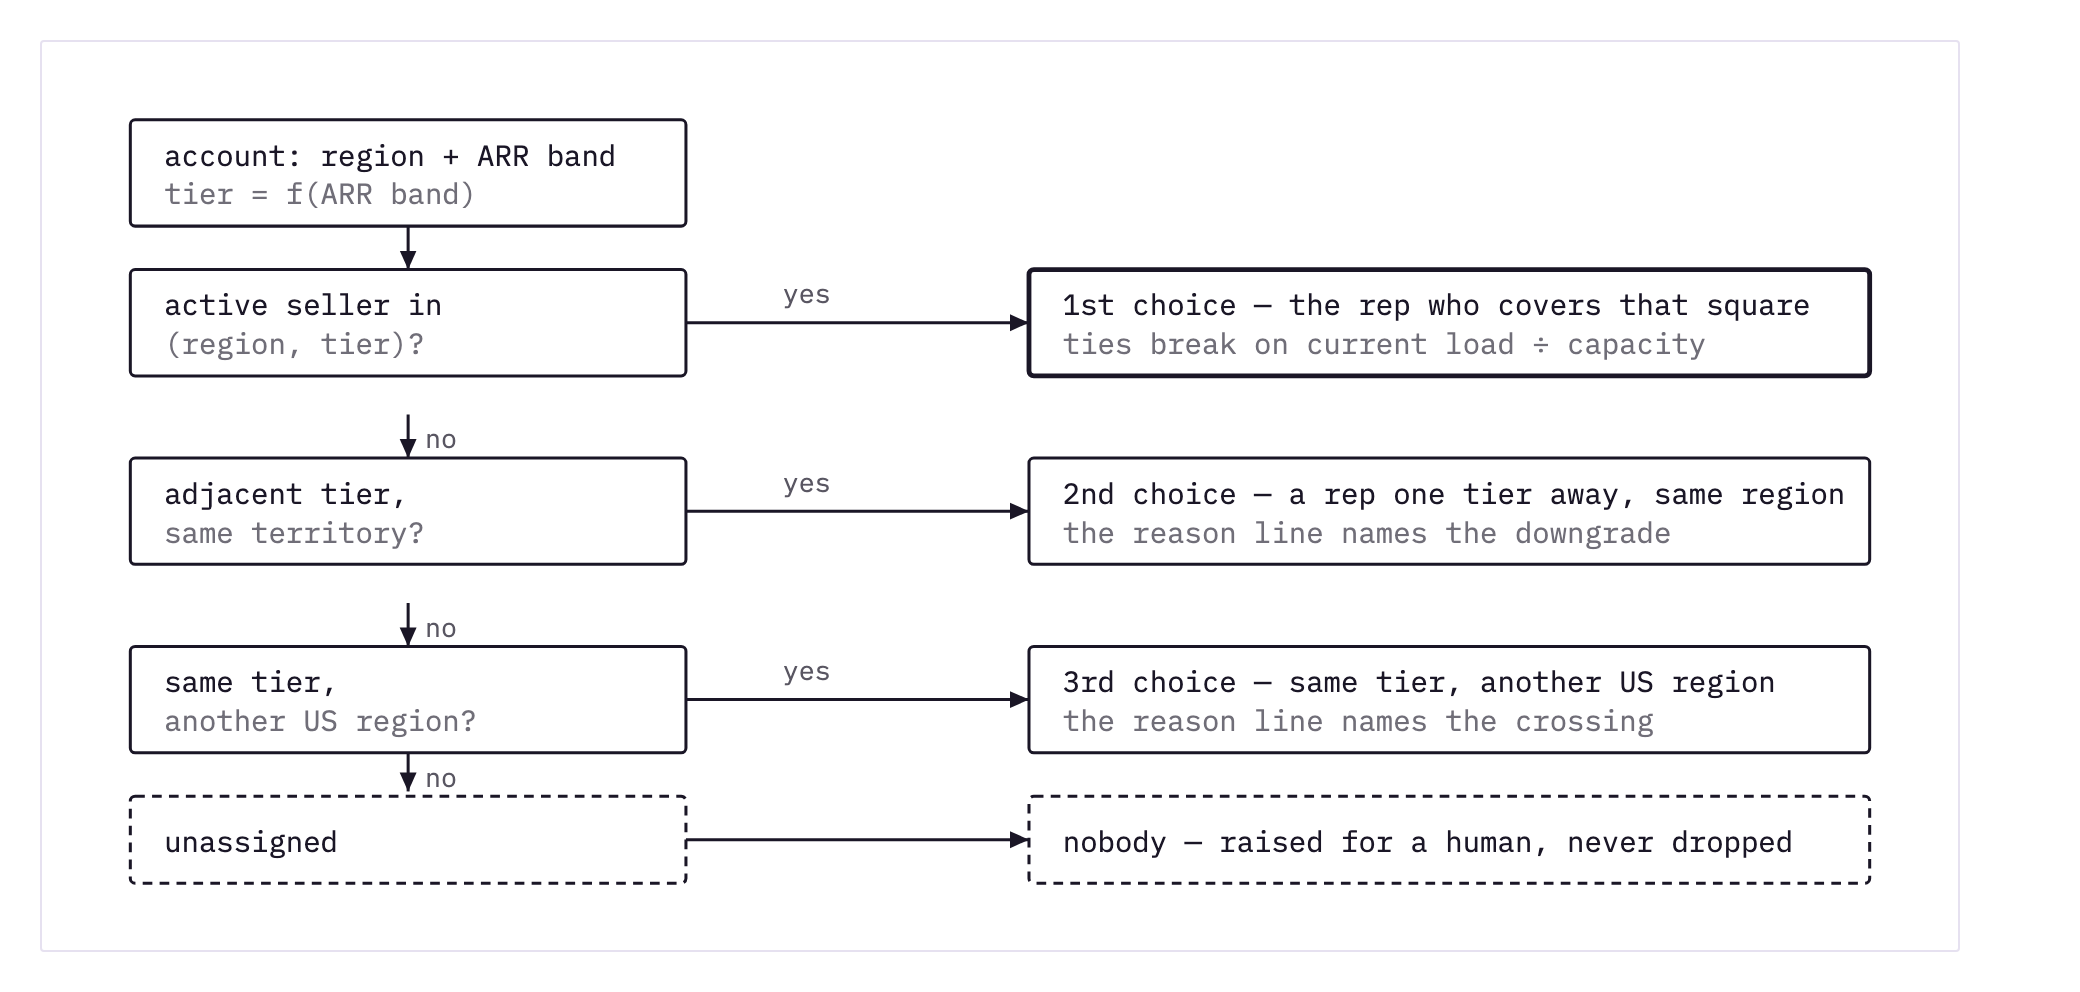
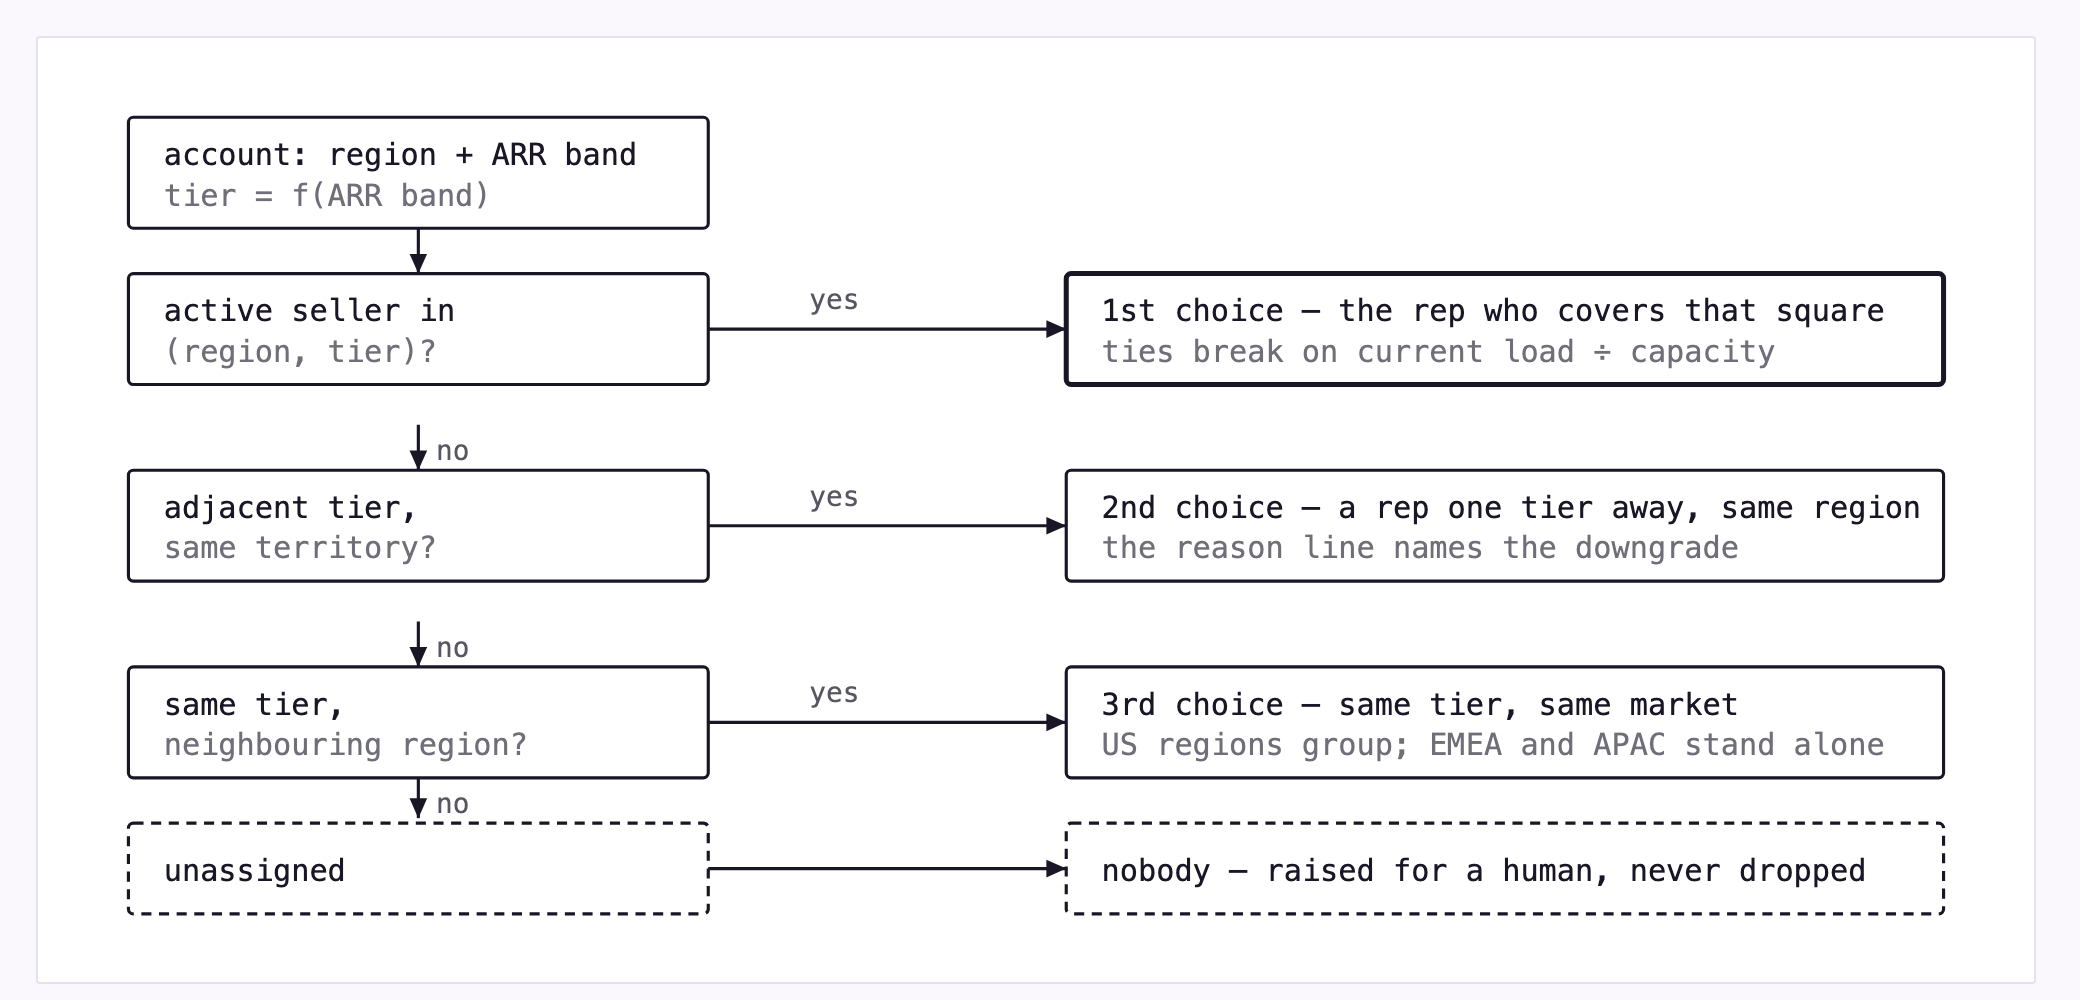
DESIGN: future extension

diff --git a/signal_router/route.py b/signal_router/route.py
@@ -9,11 +9,26 @@ opportunities" reading would behave differently. It weights the tie-break only
 and never caps anyone: nothing here refuses an assignment because a seller is
 full, which is why the load column can run past capacity without complaint.
 Fallbacks (each recorded in routing_reason): adjacent tier in the same
-territory, then same tier across US regions, then the unassigned queue.
+territory, then same tier in a neighbouring region of the same market,
+then the unassigned queue.
 OOO and ramping sellers never receive routes; the gaps they create are
 reported in coverage_report.md instead.
 """
-from .config import ADJACENT_TIERS, TIER_FROM_ARR, US_REGIONS
+from .config import ADJACENT_TIERS, TIER_FROM_ARR
+
+
+def _market(region: str) -> str:
+    """The market a region belongs to, read off its own name.
+
+    US-East, US-West and US-Central share the "US" prefix and are treated as one
+    market: same language, overlapping hours, one contract regime, so a rep in one
+    can hold an account in another until proper coverage returns. EMEA and APAC
+    carry no prefix and therefore form markets of one — deliberately, because
+    handing an APAC account to a US rep produces coverage on paper and nothing on
+    the phone. Deriving this from the name rather than hard-coding a list of
+    regions means a later EU-North / EU-South split groups itself.
+    """
+    return region.split("-")[0]
 
 
 def _pick(candidates: list[dict], load: dict) -> dict | None:
@@ -50,8 +65,11 @@ def route_bundles(bundles: list[dict], sellers: list[dict]) -> dict:
                               f"fell back to {alt} tier in-territory")
                     break
 
-        if not seller and region in US_REGIONS:  # fallback 2: cross US region
-            other = [s for r in US_REGIONS if r != region for s in in_cell(r, tier)]
+        if not seller:  # fallback 2: same tier, neighbouring region, same market
+            other = [s for s in active
+                     if s["territory"] != region
+                     and _market(s["territory"]) == _market(region)
+                     and tier in s["tiers"]]
             seller = _pick(other, load)
             if seller:
                 reason = (f"{region} / {tier}: no in-territory coverage — "

diff --git a/tests/test_pipeline.py b/tests/test_pipeline.py
@@ -191,6 +191,22 @@ class TestPipeline(unittest.TestCase):
             config.ASSUMPTIONS.clear(); config.ASSUMPTIONS.update(saved[1])
             score_signals(self.signals)
 
+    def test_cross_region_fallback_stays_inside_one_market(self):
+        """A rep may cover a neighbouring region only within the same market.
+
+        The market comes from the region name's prefix, so US-East/West/Central
+        group and EMEA/APAC stand alone. Guarding it because the branch never
+        fires on the sample data — an untested path carrying an assumption.
+        """
+        from signal_router.route import _market
+        self.assertEqual(_market("US-East"), _market("US-Central"))
+        self.assertNotEqual(_market("EMEA"), _market("APAC"))
+        self.assertNotEqual(_market("EMEA"), _market("US-East"))
+        for b in self.bundles:
+            if b["seller"] and "cross-region" in b["routing_reason"]:
+                self.assertEqual(_market(b["seller"]["territory"]),
+                                 _market(b["account"]["region"]))
+
     def test_deterministic_output(self):
         import tempfile
         outs = []

diff --git a/signal_router/config.py b/signal_router/config.py
@@ -34,13 +34,12 @@ TIER_FROM_ARR = {
 }
 
 # When the exact (territory, tier) cell has no active seller, fall back to an
-# adjacent tier in the same territory before crossing US regions.
+# adjacent tier in the same territory before crossing to a neighbouring region.
 ADJACENT_TIERS = {
     "Strategic": ["Enterprise"],
     "Enterprise": ["Strategic", "Mid-Market"],
     "Mid-Market": ["Enterprise"],
 }
-US_REGIONS = ["US-East", "US-West", "US-Central"]
 
 # ---------------------------------------------------------------------------
 # Scoring: score = (base + intensity_pts + fit_pts) * recency_decay

diff --git a/DESIGN.md b/DESIGN.md
@@ -5,10 +5,24 @@ Signals arrive daily against accounts and
 sellers, and nothing decides who acts on what. **This is a prototype that takes raw signals,
 scores them, and routes each to the right seller.**
 
+Stripped to its shape, the task is two hops — attach each event to a company, then
+attach that company to a person:
+
+```
+  ┌───────────────┐        ┌────────────────────┐        ┌────────────────┐
+  │    signals    │  ──▶   │      account       │  ──▶   │     seller     │
+  └───────────────┘        └────────────────────┘        └────────────────┘
+    what happened            who it happened to            who acts on it
+```
+
+Neither hop is given. The signal often does not name an account, and the account
+file and the seller file describe the world in different vocabularies. This is
+how the prototype closes both:
+
 ```
  usage_spike      ╮                                                               ╭─▶ seller
  job_change       │  ┌──────────┐    ┌───────┐    ┌──────────┐    ┌───────────┐   │
- intent_topic     ├─▶│ resolve  │ ─▶ │ score │ ─▶ │  bundle  │ ─▶ │   route   │───┼─▶ seller
+ intent_topic     ├─▶│ resolve  │ ─▶ │scoring│ ─▶ │  bundle  │ ─▶ │   routing │───┼─▶ seller
  funding_event    │  └──────────┘    └───────┘    └──────────┘    └───────────┘   │
  competitor_eval  ╯   to account      payload      by account      region+tier    ╰─▶ seller
                            │                                            │
@@ -22,16 +36,6 @@ scores them, and routes each to the right seller.**
 Each seller ends the run with one ranked queue — P1 to act on today, P2 this
 week, P3 to watch — and every item in it carries a named owner.
 
-
-
-## Principles
-
-1. **Every number is a business judgment** — all of them in `config.py`, with the
-   reasoning beside them.
-2. **Rank and explain together.** A number nobody can audit is a number nobody
-   trusts, and a seller who distrusts the queue stops opening it.
-3. **Refuse rather than guess.** Wrong-company outreach costs more than a delay.
-4. **Sellers think in accounts**, so signals bundle per account.
 
 ## Scoring
 
@@ -81,10 +85,7 @@ visible rather than absorbed.
 3. **Load follows territory, not effort.** The router balances inside a cell but
    cannot balance across them. This run three active reps covered the region that
    produced one work item while one rep absorbed ten, and the account base does not
-   explain it — 41 accounts against 64. At this sample size an empty queue is
-   ordinary noise; persisting at daily volume it is a territory-design problem no
-   router can fix. The dashboard therefore marks who received nothing and leaves
-   the judgment to a person.
+   explain it
 4. **Ambiguous semantics.** `job_change.direction` never says what it is relative
    to. We read "departed" as a real departure because the cheaper failure is a
    wasted check, not congratulating someone who has left — it inverts 7 of 11 job
@@ -100,27 +101,20 @@ outcomes could replace my judgment instead of sitting behind it.
 
 ## Future extensions
 
-1. Put an identity service ahead of resolution and raise the billing↔CRM break as its own
-alert. Or Integrate with CRM or Slack that can create accounts directly.
-2. Adding manager level authority to manually redirect signals to seller that could be flexible enough to redirect when sellers are in Ramp or OOO status. 
-3. Persist state for the unassigned signals. A real store is what unlocks the rest:
-today each run is a standalone set of files, so there is no history to dedupe
-against, no capacity that binds over time, and no record of what happened to an
-item after it was routed.
-4. Give every seller a named backup, so an OOO or ramping territory is covered by a
-person instead of falling through to an adjacent tier, and hand the accounts back
-when they return.
-5. Write the openers with a live model. They are deterministic templates today; the
-`--llm` path calls Fireworks' own inference API and falls back to the template on
-any failure, but it ships off by default and has never run against the live
-endpoint. 
-6. Give the seller the account, not just the signal — what the company does, who it
-sells to, what it announced this month. A rep opening a P1 on a prospect they have
-never heard of currently has one payload fact and nothing else.
-7. Make the view dynamic. The dashboard is a static file regenerated per run, which
-is why the Assign board can only export CSV rather than write a decision back. A
-served app with a session behind it would close that loop and let filters, claims
-and dismissals persist.
+Solid is what runs today. Dashed is what could happen for next.
+
+```
+                       ┌─ ─ ─ ─ ─ ─ ─ ─ ─ ─ ─ ┐    ┌─ ─ ─ ─ ─ ─ ─ ─ ─ ┐
+                       │ enrich & auto-create │    │  account brief   │
+                       └─ ─ ─ ─ ─ ─ ─ ─ ─ ─ ─ ┘    └─ ─ ─ ─ ─ ─ ─ ─ ─ ┘
+                                   ▼                         ▼
+  ┌─────────────┐        ┌──────────────────┐        ┌──────────────┐
+  │   signals   │  ──▶   │     account      │  ──▶   │    seller    │
+  └─────────────┘        └──────────────────┘        └──────────────┘
+         ▲                                                   │
+         └─ ─ ─ ─ ─ ─ ─ ─  outcome captured ─ ─ ─ ─ ─ ─ ─ ─ ─┘
+```
+
 
 ## AI usage
 
@@ -129,18 +123,17 @@ unroutable signals, the `severity_hint` contradictions, the vocabulary mismatch 
 the coverage holes were all found and verified before any code — and at writing the
 pipeline and tests once the shape was settled.
 
-**The idea and shape was mine.** I set the stage boundaries and the rule that resolution
-refuses rather than guesses, and I chose the additive-ledger scoring form over the
-model's first proposal, a three-factor multiplication that buried the ranking
-levers inside normalization constants. Deciding what the output had to be drove
-most of the product: a **team overview** so a manager sees the day's P1 set, who
-owns each item and where load actually sits; per-seller queues beneath it; and —
-because a queue that quietly drops work is worse than no queue — an **Assign
-board** where every unmatched or unassigned signal is dragged onto a named seller
-and exported as CSV, so a human decision leaves the browser instead of dying in it.
-Region is on every card there because it is the only routing dimension those
-signals still have. I also cut the model's per-card "why this was routed to you"
-note: sellers don't need the rationale, so it lives in `routes.csv` for RevOps.
-Data audit and corrections were mine as well. Keep iterating with AI to refine the prototype. 
+**The shape and the judgment calls were mine.** I set the stage boundaries and the
+rule that resolution refuses rather than guesses.  And I set the rule
+that decides where writing belongs: the dashboard shows state, this document carries
+interpretation — a paragraph the model had added to the dashboard, editorialising
+about this run's sample size, came back out.
 
-
+**Deciding what the output had to be drove most of the product.** A team overview so
+a manager sees the day's P1 set, who owns each item and where load actually sits;
+per-seller queues beneath it; and — because a queue that quietly drops work is worse
+than no queue — an Assign board where every unmatched or unassigned signal is
+dragged onto a named seller and exported as CSV, so a human decision leaves the
+browser instead of dying in it. **The defects surfaced when I questioned the output, not when the model checked its
+own work.** is why the worked example now traces every number back to the table it came
+from, rather than presenting the answer and asking to be believed.

diff --git a/README.md b/README.md
@@ -1,6 +1,6 @@
 # Fuse — signal-to-seller routing
 
-Takes 50 raw GTM signals, scores them from their payloads, bundles them per
+Takes raw GTM signals, scores them from their payloads, bundles them per
 account, and routes each bundle to the right seller — with an auditable score
 ledger and a human-review queue for everything that can't be routed safely.
 
@@ -12,7 +12,7 @@ No dependencies and no virtualenv — Python 3.10+ standard library only. Use
 ```bash
 python3 -m signal_router                    # reads data/, writes output/
 python3 -m signal_router --data-dir data --out output
-python3 tests/test_pipeline.py              # 13 checks, ~0.2s
+python3 tests/test_pipeline.py              # conservation + behaviour checks
 ```
 
 Optional: `--llm` polishes the suggested openers through the Fireworks chat
@@ -26,12 +26,15 @@ deterministic templates, so the flag is always safe.
 
 ## Outputs (`output/`)
 
+A sample run is committed so the results can be read without running anything;
+re-running overwrites it in place.
+
 | File | Audience | What it is |
 |---|---|---|
 | `queues/S0X_<name>.md` | each seller | their accounts, sorted by priority, with why-now facts, a score ledger, and a suggested opener |
 | `dashboard.html` | sellers / managers | single static page, four tabs: team overview, seller queues, unmatched queue, and an **Assign** board for triaging what the router could not place |
 | `routes.csv` | RevOps | flat audit table: every routed signal with score breakdown and routing reason |
-| `unmatched_queue.csv` | SDR / RevOps | 15 signals that match no CRM account, with recommended actions and fuzzy hints |
+| `unmatched_queue.csv` | SDR / RevOps | every signal that matches no CRM account, with a recommended action and close-name suggestions — never an assignment |
 | `coverage_report.md` | RevOps | territory holes, single points of failure, post-routing load, data-quality flags |
 | `scoring_audit.md` | reviewer | flat audit table: every signal's payload → score components → owner, grouped by type; bundle → seller with the aggregation math |
 
@@ -45,9 +48,13 @@ pipeline. **Export assignments** turns the board into CSV and copies it to the
 clipboard:
 
 ```csv
-item_type,item_id,item_name,region,assigned_seller_id,assigned_seller_name
-signal,SIG049,Urchin Secure,APAC,S10,Hiro Tanaka
+item_type,item_id,item_name,region,assigned_seller_id,assigned_seller_name,territory,region_match
+signal,SIG049,Urchin Secure,APAC,S10,Hiro Tanaka,APAC,yes
 ```
+
+`region_match` flags a card dropped outside the seller's own territory — allowed,
+since a manager may deliberately cover a gap, but recorded so the choice is
+reviewable.
 
 Save that as `data/manual_assignments.csv` to hand the decisions back to the next run.
 Reading it during routing is the obvious next step and is not wired up yet.
